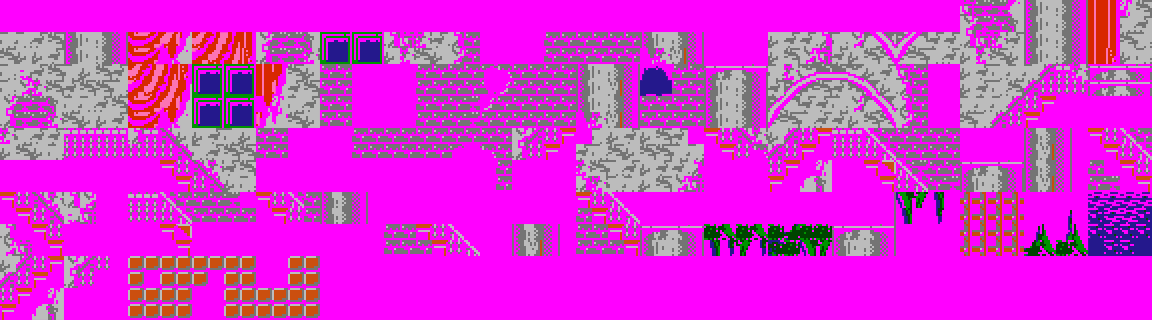
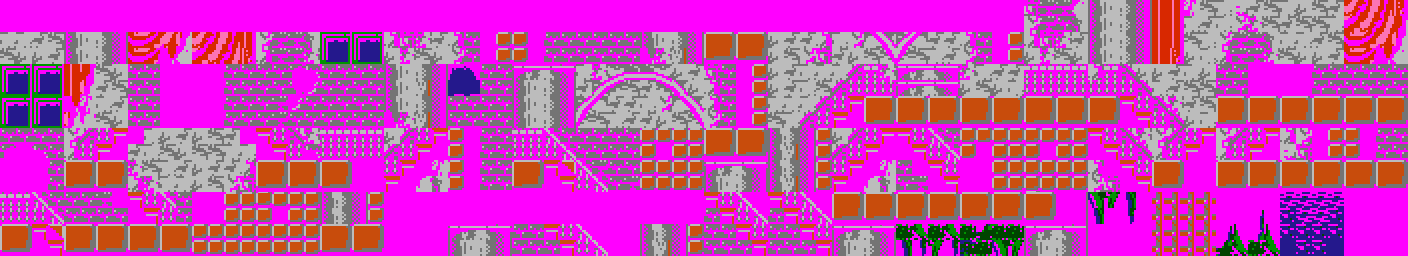
Fix bug Grid

diff --git a/game/Brick.cpp b/game/Brick.cpp
@@ -41,17 +41,37 @@ Brick::Brick(int X, int Y, int W, int H, int Model)
 
 void Brick::Render(Camera * camera)
 {
-	
-	D3DXVECTOR2 pos = camera->Transform(x, y);
-	for (int i = 0; i < (int)ceil(width / _texture->FrameWidth); i++)
-		for (int j = 0; j < (int)ceil(height / _texture->FrameHeight); j++)
-			_sprite->Draw( (int) pos.x + i * _texture->FrameWidth, (int)pos.y + j * _texture->FrameHeight);
-
-
-
-
 	if (IS_DEBUG_RENDER_BBOX)
 		RenderBoundingBox(camera);
+
+	if (model == BRICK_MODEL_TRANSPARENT)
+		return;
+
+
+	//return;
+
+	D3DXVECTOR2 pos = camera->Transform(x, y);
+ 
+	for (int i = 0; i < (int)ceil(width / _texture->FrameWidth); i++)
+		for (int j = 0; j < (int)ceil(height / _texture->FrameHeight); j++)
+			_sprite->Draw((int)pos.x + i * _texture->FrameWidth, (int)pos.y + j * _texture->FrameHeight);
+ 
+	//int vtd = 0;
+	//if (x < camera->GetXCam())
+	//	vtd =  (camera->GetXCam() - x) / _texture->FrameWidth;
+
+	//int vtc = (int)ceil(width / _texture->FrameWidth);// min((int)ceil(width / _texture->FrameWidth), vtd + camera->GetWidth() / _texture->FrameWidth);
+
+
+	//for (int i = vtd; i < vtc; i++)
+	//	for (int j = 0; j < (int)ceil(height / _texture->FrameHeight); j++)
+	//		_sprite->Draw((int)pos.x + i * _texture->FrameWidth, (int)pos.y + j * _texture->FrameHeight);
+ //
+	//for (int i = 0; i < (int)ceil(width / _texture->FrameWidth); i++)
+	//	for (int j = 0; j < (int)ceil(height / _texture->FrameHeight); j++)
+	//		_sprite->Draw((int)pos.x + i * _texture->FrameWidth, (int)pos.y + j * _texture->FrameHeight);
+ // 
+	
 }
 
 void Brick::GetBoundingBox(float &l, float &t, float &r, float &b)

diff --git a/game/Grid.h b/game/Grid.h
@@ -16,8 +16,8 @@
 
 using namespace std;
 
-#define GRID_CELL_WIDTH 256
-#define GRID_CELL_HEIGHT 224
+#define GRID_CELL_WIDTH SCREEN_WIDTH/2 
+#define GRID_CELL_HEIGHT SCREEN_HEIGHT/2
 
 #define GRID_INSERT_OBJECT__DIXUONGHONUOC_LEFT 41, eType::OBJECT_HIDDEN, -1, 3190 ,423, 40, 10, 0 // object ẩn đụng vào sẽ đi xuống hồ nước, phía trái
 #define GRID_INSERT_OBJECT__DIRAKHOIHONUOC_LEFT 45, eType::OBJECT_HIDDEN, -1, 3135, 435, 20, 20, 0 // object ẩn đụng vào sẽ đi ra khỏi hồ nước, phía trái
@@ -25,8 +25,8 @@ using namespace std;
 #define GRID_INSERT_OBJECT__DIXUONGHONUOC_RIGHT 86, eType::OBJECT_HIDDEN, -1, 3835, 423, 25, 10, 0 // object ẩn đụng vào sẽ đi ra khỏi hồ nước, phía trái
 #define GRID_INSERT_OBJECT__DIRAKHOIHONUOC_RIGHT 81, eType::OBJECT_HIDDEN, -1, 3807, 460, 30, 20, 0 // object ẩn đụng vào sẽ đi ra khỏi hồ nước, phía trái
 
-#define GRID_CELL_MAX_ROW 50 // số dòng tối đa;
-#define GRID_CELL_MAX_COLUMN 10 // số cột tối đa
+#define GRID_CELL_MAX_ROW 510 // số dòng tối đa;
+#define GRID_CELL_MAX_COLUMN 110 // số cột tối đa
 #define GRID_BASE 5
 
 

diff --git a/game/Grid.cpp b/game/Grid.cpp
@@ -39,8 +39,7 @@ void Grid::ReadFileToGrid(char * filename)
 void Grid::GetListObject(vector<GameObject*>& ListObj, Camera * camera)
 {
 	ListObj.clear(); // clear list
-	 
-
+	  
 	DWORD IdTakeNow = GetTickCount(); 
 
 	int rowBottom = (int) floor((camera->GetYCam() + camera->GetHeight() - 1) / (float)GRID_CELL_HEIGHT);
@@ -59,8 +58,10 @@ void Grid::GetListObject(vector<GameObject*>& ListObj, Camera * camera)
 				{
 					if (cells[row + GRID_BASE][col + GRID_BASE].at(i)->GetIdTake() != IdTakeNow) // đánh dấu trước khác hiện tại
 					{
-						ListObj.push_back(cells[row + GRID_BASE][col + GRID_BASE].at(i)); 
 						cells[row + GRID_BASE][col + GRID_BASE].at(i)->SetIdTake(IdTakeNow); // lấy và đánh dấu lại
+
+						ListObj.push_back(cells[row + GRID_BASE][col + GRID_BASE].at(i)); 
+						
 					}
 				}
 			}
@@ -100,7 +101,7 @@ void Grid::GetListObject(vector<GameObject*> &ListObj, GameObject * obj)
 }
  
 void Grid::Insert(int id, int type, int direction, int x, int y, int w, int h, int Model)
-{ 
+{  
 	int Top = (int) floor( y / (float)GRID_CELL_HEIGHT);
 	int Bottom = (int)floor((y + h) / (float)GRID_CELL_HEIGHT);
 

diff --git a/game/Scene_2.cpp b/game/Scene_2.cpp
@@ -889,7 +889,17 @@ void Scene_2::Update(DWORD dt)
 
 	gridGame->GetListObject(listObj, camera); // lấy hết các object "còn Alive" trong vùng camera;
 
-	//DebugOut(L"[GRID] size = %d\n", listObj.size());
+	DebugOut(L"[GRID] size = %d\n", listObj.size());
+
+	for (UINT i = 0; i < listObj.size(); i++)
+	{
+		if (listObj[i]->GetId() == 31)
+		{
+
+			int xxxx = 0;
+			//544
+		}
+	}
 
 	simon->Update(dt, camera, &listObj);
 
@@ -1330,10 +1340,7 @@ void Scene_2::Update(DWORD dt)
 }
 
 void Scene_2::Render()
-{
-
-	
-
+{ 
 	TileMap->DrawMap(camera);
 
 	for (UINT i = 0; i < listObj.size(); i++)

diff --git a/game/TextureManager.cpp b/game/TextureManager.cpp
@@ -40,7 +40,7 @@ void TextureManager::LoadResource()
 	//MAP
 	AddTexture(eType::MAP1, new GTexture("Resources/map/1.png", 10, 4, 40));
 	//AddTexture(eType::MAP2, new GTexture("Resources/map/2.png", 18, 4, 72));
-	AddTexture(eType::MAP2, new GTexture("Resources/map/2.png", 18, 5, 90));
+	AddTexture(eType::MAP2, new GTexture("Resources/map/2.png", 22, 4, 88));
 
 
 	//gameobject ground

diff --git a/game/main.cpp b/game/main.cpp
@@ -269,7 +269,7 @@ int WINAPI WinMain(HINSTANCE hInstance, HINSTANCE hPrevInstance, LPSTR lpCmdLine
 	_sceneManager = SceneManager::GetInstance();
 
 
-	_sceneManager->SetScene(new Scene_Intro()); // vào màn 1
+	_sceneManager->SetScene(new Scene_1()); // vào màn 1
 	 
 
 

diff --git a/game/GameObject.cpp b/game/GameObject.cpp
@@ -152,12 +152,12 @@ eType GameObject::GetType()
 	return type;
 }
 
-bool GameObject::GetIdTake()
+DWORD GameObject::GetIdTake()
 {
 	return IdTake;
 }
 
-void GameObject::SetIdTake(int b)
+void GameObject::SetIdTake(DWORD b)
 {
 	IdTake = b;
 }

diff --git a/game/GameObject.h b/game/GameObject.h
@@ -99,8 +99,8 @@ public:
 	eType GetType();
 
 
-	bool GetIdTake();
-	void SetIdTake(int b);
+	DWORD GetIdTake();
+	void SetIdTake(DWORD b);
 
 	void RenderBoundingBox(Camera * camera);
 	LPCOLLISIONEVENT SweptAABBEx(GameObject * coO);

diff --git a/game/define.h b/game/define.h
@@ -40,11 +40,11 @@ using namespace std;
 
 
 
-#define SCREEN_WIDTH 512+15
+#define SCREEN_WIDTH (512+15)
 #define SCREEN_HEIGHT 480 
 
 
-#define IS_DEBUG_RENDER_BBOX 0
+#define IS_DEBUG_RENDER_BBOX 1
 
 #define MAX_FRAME_RATE 90
 
